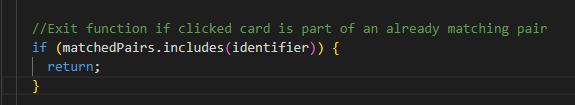
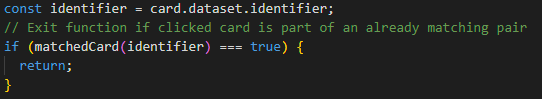
Added the multiple turning cards bug to the README and changed the syntax on the previous bug since that was rewritten.

Changed region(s): [[0.0, 0.0, 0.9742, 1.0], [0.059, 0.7576, 0.0886, 0.8788]]

diff --git a/README.md b/README.md
@@ -206,9 +206,15 @@ _Clicked first card and a card that doesn't match makes the first clicked card t
 
 ![The first card flipping back](./docs/screenshots/bugs/bug_flipped_cardOne.png)
 
-I stored the matching pairs in an array and in the if statement in the image below, control if the card is already matched which exits the function if true.
+I stored the matching pairs in an array and in the if statement, in the image below, control if the card is already matched which exits the function if true.
 
-![Solution syntax](./docs/screenshots/bugs/bug_cardOne_syntax_solution.png)
+![The function that exits the function if they are already matched](./docs/screenshots/bugs/bug_cardOne_syntax_solution.png)
+
+![The checks if the card is matched](./docs/screenshots/bugs/bug_cardOne_syntax_solution_function.png)
+
+**Freeze board while cards turn back**
+
+When the user picks two cards they could click more images to turn and that would break the game. To solve this I found a solution on [Stackoverflow(1)](#credits) which utilizes the lockboard variable and setting it to true or false.
 
 #### Known bugs
 
@@ -244,3 +250,4 @@ I stored the matching pairs in an array and in the if statement in the image bel
 | [testsigma](https://testsigma.com/blog/common-screen-resolutions/)                   | Screen resolution | Resource | Follow the standard/common screen resolution to ensure responsiveness to devices.                        |
 | [CSS-tricks](https://css-tricks.com/almanac/selectors/a/attribute/)                  |  data attributes  | Resource | To understand how to include a data-attribute in the css file for the flip effect.                       |
 | [Pexels](https://www.pexels.com/search/duck/)                                        |    Duck images    | Resource | Where I got the free to use duck images.                                                                 |
+| [Stackoverflow(1)](https://shorturl.at/TOVcr)                                        |    Syntax/bug     | Resource | To freeze the player's board before two pictures are flipped back.                                       |
